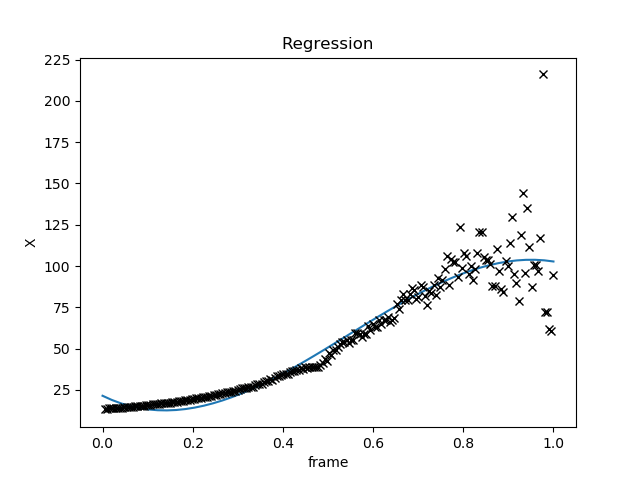
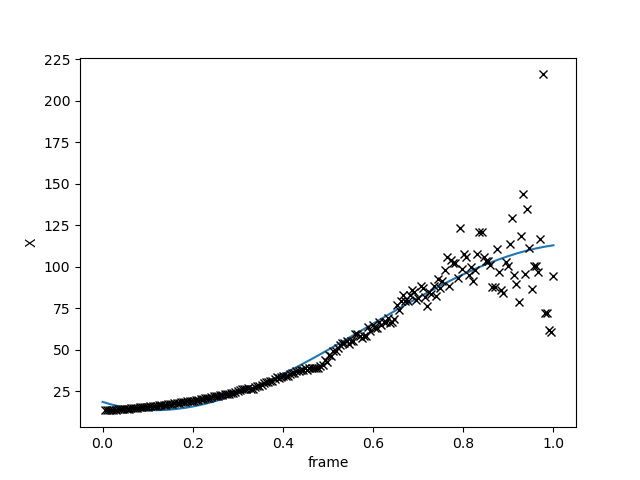
reggression v2 with result data

diff --git a/CR-06_multi_reg/reg.py b/CR-06_multi_reg/reg.py
@@ -6,7 +6,7 @@ import tensorflow as tf
 
 #LOAD data
 
-file_1 = np.genfromtxt('data/m4_z.csv', delimiter=',', skip_header=1)
+file_1 = np.genfromtxt('data/m4_x.csv', delimiter=',', skip_header=1)
 N = np.shape(file_1)[0]
 #data_x = file_1[:N, 0]
 #list(map(list, zip(data_x)))
@@ -24,7 +24,7 @@ data_y = data_y_ori[:half].reshape(half, 1)
 #        + 1.5 * np.sin(data_x) + np.random.randn(100, 1)
 # --------
 
-model_order = 5
+model_order = 4
 data_x = np.power(data_x, range(model_order))
 data_x /= np.max(data_x, axis=0)
 
@@ -51,7 +51,7 @@ with tf.name_scope("train"):
     cost_op = tf.reduce_mean(tf.pow(y-outputs, 2))
     train_op = tf.train.GradientDescentOptimizer(learning_rate).minimize(cost_op)
 
-    tolerance = 1e-10
+    tolerance = 1e-4
 
 # Perform Stochastic Gradient Descent
 epochs = 1
@@ -89,8 +89,8 @@ with sess.as_default():
 
 
 tt = np.linspace(np.min(0), np.max(1))
-plt.plot(tt, w[4]*tt**4+w[3]*tt**3+w[2]*tt**2+w[1]*tt+w[0])
-#plt.plot(tt, w[3]*tt**3+w[2]*tt**2+w[1]*tt+w[0])
+#plt.plot(tt, w[4]*tt**4+w[3]*tt**3+w[2]*tt**2+w[1]*tt+w[0])
+plt.plot(tt, w[3]*tt**3+w[2]*tt**2+w[1]*tt+w[0])
 #plt.plot(tt, w[2]*tt**2+w[1]*tt+w[0])
 plt.plot(data_x_ori, data_y_ori, 'kx')
 
@@ -100,7 +100,7 @@ plt.plot(data_x_ori, data_y_ori, 'kx')
 
 plt.xlabel('frame')
 plt.ylabel('X')
-plt.title('Regression')
+#plt.title('Regression')
 
 plt.savefig('mpg.png')
 
